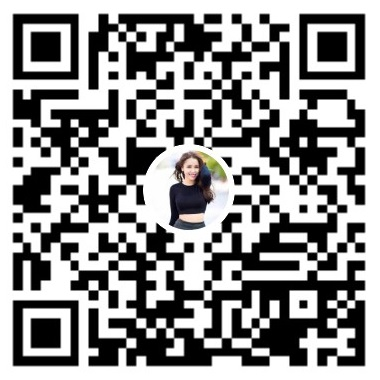
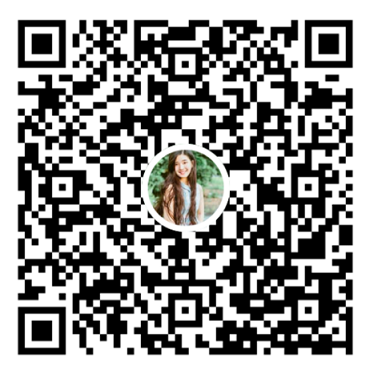
update QR

diff --git a/docs/index.html b/docs/index.html
@@ -50,7 +50,7 @@
 <div class="col-lg-12 text-center">
 <h2 class="section-heading">Mã Nạp</h2>
 
-<h2 class="section-heading"><img alt="" src="img/GeneralQRCode.jpg?y=2265466" /></h2>
+<h2 class="section-heading"><img alt="" src="img/GeneralQRCode.jpg?k=9988323" /></h2>
 </div>
 </div>
 <!-- tinhnang Section -->
